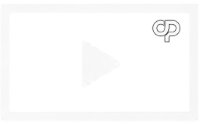
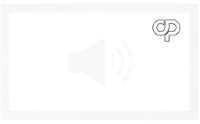
fix: Simplifies search logic and improves image loading
Refactors clipboard search to use basic type keyword and text matching,
removing complex pattern and wildcard support for clarity and reliability.
Updates image loading to handle missing files gracefully and prevent
unnecessary errors. Adds one-way binding to UI elements for consistency.
Swaps audio and video thumbnail assets for correct display.

Changed region(s): [[0.75, 0.1452, 0.9, 0.3629]]

diff --git a/CopyPaste.UI/MainWindow.xaml b/CopyPaste.UI/MainWindow.xaml
@@ -114,14 +114,14 @@
                                 </Grid.ColumnDefinitions>
 
                                 <StackPanel Orientation="Horizontal" VerticalAlignment="Center" Opacity="0.6">
-                                    <FontIcon Glyph="{x:Bind TypeIcon}" FontSize="12" Margin="0,0,8,0"/>
-                                    <TextBlock Text="{x:Bind HeaderTitle}" FontSize="11" FontWeight="SemiBold"/>
+                                    <FontIcon Glyph="{x:Bind TypeIcon, Mode=OneWay}" FontSize="12" Margin="0,0,8,0"/>
+                                    <TextBlock Text="{x:Bind HeaderTitle, Mode=OneWay}" FontSize="11" FontWeight="SemiBold"/>
                                     <TextBlock Text="•" Margin="6,0,6,0" FontSize="10"/>
-                                    <TextBlock Text="{x:Bind Timestamp}" FontSize="11"/>
+                                    <TextBlock Text="{x:Bind Timestamp, Mode=OneWay}" FontSize="11"/>
                                 </StackPanel>
                             </Grid>
 
-                            <TextBlock Text="{x:Bind Content}" 
+                            <TextBlock Text="{x:Bind Content, Mode=OneWay}" 
                                        Grid.Row="1"
                                        MaxLines="3" 
                                        LineHeight="20"
@@ -129,20 +129,20 @@
                                        FontSize="13"
                                        Opacity="0.9"
                                        TextWrapping="Wrap"
-                                       Visibility="{x:Bind IsTextVisible}"/>
+                                       Visibility="{x:Bind IsTextVisible, Mode=OneWay}"/>
 
                             <Image x:Name="ClipboardImage"
                                    Grid.Row="1"
                                    Stretch="UniformToFill"
                                    MaxHeight="140"
                                    HorizontalAlignment="Left"
-                                   Visibility="{x:Bind ImageVisibility}"
+                                   Visibility="{x:Bind ImageVisibility, Mode=OneWay}"
                                    Loaded="ClipboardImage_Loaded"
-                                   Tag="{x:Bind ImagePath}"/>
+                                   Tag="{x:Bind ImagePath, Mode=OneWay}"/>
 
                             <!-- Media (Video/Audio) Thumbnail with duration overlay -->
-                            <Grid Grid.Row="1" Visibility="{x:Bind MediaThumbnailVisibility}">
-                                <Image Source="{x:Bind ThumbnailPath}"
+                            <Grid Grid.Row="1" Visibility="{x:Bind MediaThumbnailVisibility, Mode=OneWay}">
+                                <Image Source="{x:Bind ThumbnailPath, Mode=OneWay}"
                                        Stretch="UniformToFill"
                                        MaxHeight="140"
                                        HorizontalAlignment="Left"/>
@@ -152,8 +152,8 @@
                                         HorizontalAlignment="Right" 
                                         VerticalAlignment="Bottom"
                                         Margin="0,0,4,4"
-                                        Visibility="{x:Bind DurationVisibility}">
-                                    <TextBlock Text="{x:Bind MediaDuration}" 
+                                        Visibility="{x:Bind DurationVisibility, Mode=OneWay}">
+                                    <TextBlock Text="{x:Bind MediaDuration, Mode=OneWay}" 
                                                FontSize="10" 
                                                Foreground="White"/>
                                 </Border>

diff --git a/CopyPaste.Core/SearchHelper.cs b/CopyPaste.Core/SearchHelper.cs
@@ -4,14 +4,11 @@ using System.Text;
 namespace CopyPaste.Core;
 
 /// <summary>
-/// Helper class for advanced clipboard search functionality.
-/// Handles text normalization, pattern matching, and filter logic.
+/// Helper class for clipboard search functionality.
+/// Simple text search with type filtering based on database Type field.
 /// </summary>
 internal static class SearchHelper
 {
-    private static readonly char[] _wordSeparators = [' ', '\n', '\r', '\t', '\\', '/', '.', ',', ';', ':', '|', '-', '_'];
-    private static readonly char[] _fileNameSeparators = ['\\', '/', '\n', '\r'];
-
     public static string NormalizeText(string text)
     {
         if (string.IsNullOrEmpty(text))
@@ -39,146 +36,29 @@ internal static class SearchHelper
         if (string.IsNullOrWhiteSpace(normalizedQuery))
             return true;
 
+        // Check if query is a type keyword
+        var matchedType = GetTypeFromKeyword(normalizedQuery);
+        if (matchedType != null)
+        {
+            // Filter by Type field from database (source of truth)
+            return item.Type == matchedType.Value;
+        }
+
+        // Not a type keyword - search in content as plain text
         var content = NormalizeText(item.Content ?? string.Empty).ToUpperInvariant();
-        var appSource = NormalizeText(item.AppSource ?? string.Empty).ToUpperInvariant();
-
-        // Type-based search (keywords)
-        if (IsTypeKeyword(normalizedQuery, out var matchedType))
-            return item.Type == matchedType;
-
-        var fileName = ExtractFileName(content);
-
-        // Extension search (.ext or *.ext)
-        if (IsExtensionPattern(normalizedQuery, out var extension))
-        {
-            return content.Contains($".{extension}", StringComparison.Ordinal) ||
-                   fileName.EndsWith($".{extension}", StringComparison.Ordinal) ||
-                   appSource.Contains($".{extension}", StringComparison.Ordinal);
-        }
-
-        // Wildcard patterns
-        if (normalizedQuery.Length > 2 && normalizedQuery.StartsWith('*') && normalizedQuery.EndsWith('*'))
-        {
-            var searchTerm = normalizedQuery.AsSpan(1, normalizedQuery.Length - 2).ToString();
-            return content.Contains(searchTerm, StringComparison.Ordinal) ||
-                   appSource.Contains(searchTerm, StringComparison.Ordinal) ||
-                   fileName.Contains(searchTerm, StringComparison.Ordinal);
-        }
-
-        if (normalizedQuery.Length > 1 && normalizedQuery.EndsWith('*'))
-        {
-            var searchTerm = normalizedQuery.AsSpan(0, normalizedQuery.Length - 1).ToString();
-            return ContainsWord(content, searchTerm, isPrefix: true) ||
-                   appSource.StartsWith(searchTerm, StringComparison.Ordinal) ||
-                   fileName.StartsWith(searchTerm, StringComparison.Ordinal);
-        }
-
-        if (normalizedQuery.Length > 1 && normalizedQuery.StartsWith('*'))
-        {
-            var searchTerm = normalizedQuery.AsSpan(1).ToString();
-            return ContainsWord(content, searchTerm, isSuffix: true) ||
-                   appSource.EndsWith(searchTerm, StringComparison.Ordinal) ||
-                   fileName.EndsWith(searchTerm, StringComparison.Ordinal);
-        }
-
-        // Default: exact word or substring match
-        return ContainsWord(content, normalizedQuery) ||
-               appSource.Contains(normalizedQuery, StringComparison.Ordinal) ||
-               fileName.Contains(normalizedQuery, StringComparison.Ordinal);
+        return content.Contains(normalizedQuery, StringComparison.Ordinal);
     }
 
-    private static bool IsTypeKeyword(string query, out ClipboardContentType type)
+    private static ClipboardContentType? GetTypeFromKeyword(string query) => query switch
     {
-        type = ClipboardContentType.Unknown;
-
-        if (query.Contains("IMAGE", StringComparison.Ordinal) || query.Contains("IMAGEN", StringComparison.Ordinal))
-        {
-            type = ClipboardContentType.Image;
-            return true;
-        }
-
-        if (query.Contains("VIDEO", StringComparison.Ordinal))
-        {
-            type = ClipboardContentType.Video;
-            return true;
-        }
-
-        if (query.Contains("AUDIO", StringComparison.Ordinal) || query.Contains("MUSICA", StringComparison.Ordinal) || query.Contains("CANCION", StringComparison.Ordinal))
-        {
-            type = ClipboardContentType.Audio;
-            return true;
-        }
-
-        if (query.Contains("FILE", StringComparison.Ordinal) || query.Contains("ARCHIVO", StringComparison.Ordinal))
-        {
-            type = ClipboardContentType.File;
-            return true;
-        }
-
-        if (query.Contains("FOLDER", StringComparison.Ordinal) || query.Contains("CARPETA", StringComparison.Ordinal) || query.Contains("DIRECTORIO", StringComparison.Ordinal))
-        {
-            type = ClipboardContentType.Folder;
-            return true;
-        }
-
-        if (query.Contains("LINK", StringComparison.Ordinal) || query.Contains("ENLACE", StringComparison.Ordinal) || query.Contains("URL", StringComparison.Ordinal))
-        {
-            type = ClipboardContentType.Link;
-            return true;
-        }
-
-        if (query.Contains("TEXT", StringComparison.Ordinal) || query.Contains("TEXTO", StringComparison.Ordinal))
-        {
-            type = ClipboardContentType.Text;
-            return true;
-        }
-
-        return false;
-    }
-
-    private static bool IsExtensionPattern(string query, out string extension)
-    {
-        extension = string.Empty;
-
-        if ((query.Length > 1 && query.StartsWith('*')) || (query.Length > 0 && query.StartsWith('.')))
-        {
-            extension = query.TrimStart('*', '.').ToUpperInvariant();
-            return true;
-        }
-
-        return false;
-    }
-
-    private static string ExtractFileName(string path)
-    {
-        if (string.IsNullOrEmpty(path))
-            return string.Empty;
-
-        var fileName = path.Split(_fileNameSeparators, StringSplitOptions.RemoveEmptyEntries).LastOrDefault() ?? string.Empty;
-        return fileName.ToUpperInvariant();
-    }
-
-    private static bool ContainsWord(string content, string searchTerm, bool isPrefix = false, bool isSuffix = false)
-    {
-        if (string.IsNullOrEmpty(content) || string.IsNullOrEmpty(searchTerm))
-            return false;
-
-        if (isPrefix)
-        {
-            var words = content.Split(_wordSeparators, StringSplitOptions.RemoveEmptyEntries);
-            return words.Any(w => w.StartsWith(searchTerm, StringComparison.Ordinal));
-        }
-
-        if (isSuffix)
-        {
-            var words = content.Split(_wordSeparators, StringSplitOptions.RemoveEmptyEntries);
-            return words.Any(w => w.EndsWith(searchTerm, StringComparison.Ordinal));
-        }
-
-        var tokens = content.Split(_wordSeparators, StringSplitOptions.RemoveEmptyEntries);
-        if (tokens.Any(w => w.Equals(searchTerm, StringComparison.Ordinal)))
-            return true;
-
-        return content.Contains(searchTerm, StringComparison.Ordinal);
-    }
+        "IMAGE" or "IMAGEN" or "IMG" => ClipboardContentType.Image,
+        "VIDEO" => ClipboardContentType.Video,
+        "AUDIO" or "MUSICA" or "CANCION" => ClipboardContentType.Audio,
+        "FILE" or "ARCHIVO" => ClipboardContentType.File,
+        "FOLDER" or "CARPETA" or "DIRECTORIO" => ClipboardContentType.Folder,
+        "LINK" or "ENLACE" or "URL" => ClipboardContentType.Link,
+        "TEXT" or "TEXTO" => ClipboardContentType.Text,
+        _ => null
+    };
 }
+

diff --git a/CopyPaste.UI/MainWindow.xaml.cs b/CopyPaste.UI/MainWindow.xaml.cs
@@ -295,32 +295,43 @@ public sealed partial class MainWindow : Window
         var imagePath = image.Tag as string;
         if (string.IsNullOrEmpty(imagePath)) return;
 
+        if (!imagePath.StartsWith("ms-appx://", StringComparison.OrdinalIgnoreCase))
+        {
+            if (!System.IO.File.Exists(imagePath))
+            {
+                if (imagePath.Contains("_t.png", StringComparison.Ordinal))
+                {
+                    try
+                    {
+                        image.Source = new Microsoft.UI.Xaml.Media.Imaging.BitmapImage
+                        {
+                            UriSource = new Uri("ms-appx:///Assets/thumb/image.png")
+                        };
+                    }
+                    catch { }
+                }
+                return;
+            }
+        }
+
+        if (image.Source is Microsoft.UI.Xaml.Media.Imaging.BitmapImage currentBitmap &&
+            currentBitmap.UriSource?.LocalPath == new Uri(imagePath).LocalPath)
+        {
+            return;
+        }
+
         try
         {
-            var bitmap = new Microsoft.UI.Xaml.Media.Imaging.BitmapImage
+            image.Source = new Microsoft.UI.Xaml.Media.Imaging.BitmapImage
             {
                 UriSource = new Uri(imagePath),
-
-                // Prevent file locking and reduce memory usage
-                CreateOptions = Microsoft.UI.Xaml.Media.Imaging.BitmapCreateOptions.IgnoreImageCache,
-
-                // Decode to optimal display size using configured value
+                CreateOptions = Microsoft.UI.Xaml.Media.Imaging.BitmapCreateOptions.None,
                 DecodePixelHeight = ThumbnailConfig.UIDecodeHeight
             };
-
-            image.Source = bitmap;
         }
-        catch (UriFormatException ex)
+        catch
         {
-            System.Diagnostics.Debug.WriteLine($"Formato de URI inválido: {ex.Message}");
-        }
-        catch (System.IO.IOException ex)
-        {
-            System.Diagnostics.Debug.WriteLine($"Error de E/S al cargar la imagen: {ex.Message}");
-        }
-        catch (UnauthorizedAccessException ex)
-        {
-            System.Diagnostics.Debug.WriteLine($"Acceso no autorizado al cargar la imagen: {ex.Message}");
+            // Silently fail - image will remain empty
         }
     }
 

diff --git a/CopyPaste.UI/MainViewModel.cs b/CopyPaste.UI/MainViewModel.cs
@@ -139,7 +139,7 @@ public partial class MainViewModel : ObservableObject
 
         // Reset to initial page size and clear search when window is deactivated
         SearchQuery = string.Empty;
-        
+
         while (Items.Count > UIConfig.PageSize)
         {
             Items.RemoveAt(Items.Count - 1);

diff --git a/CopyPaste.Core/ClipboardService.cs b/CopyPaste.Core/ClipboardService.cs
@@ -460,6 +460,7 @@ public class ClipboardService(IClipboardRepository repository)
         item.ModifiedAt = DateTime.UtcNow;
         repository.Update(item);
     }
+
     private static byte[]? ConvertDibToBmp(byte[] dibData)
     {
         if (dibData.Length < 40) return null;
